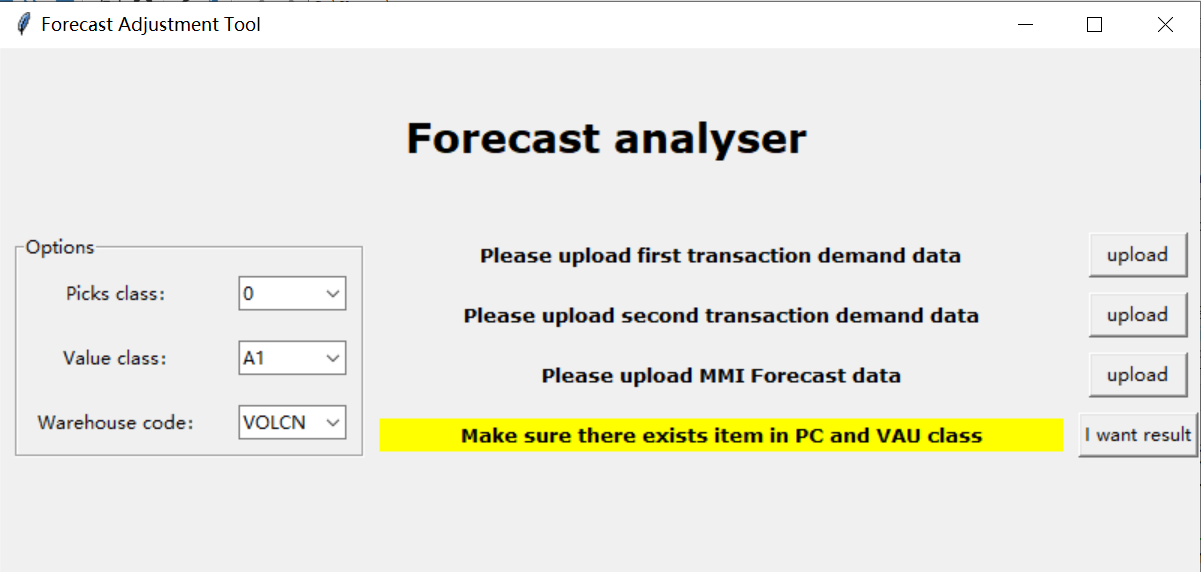
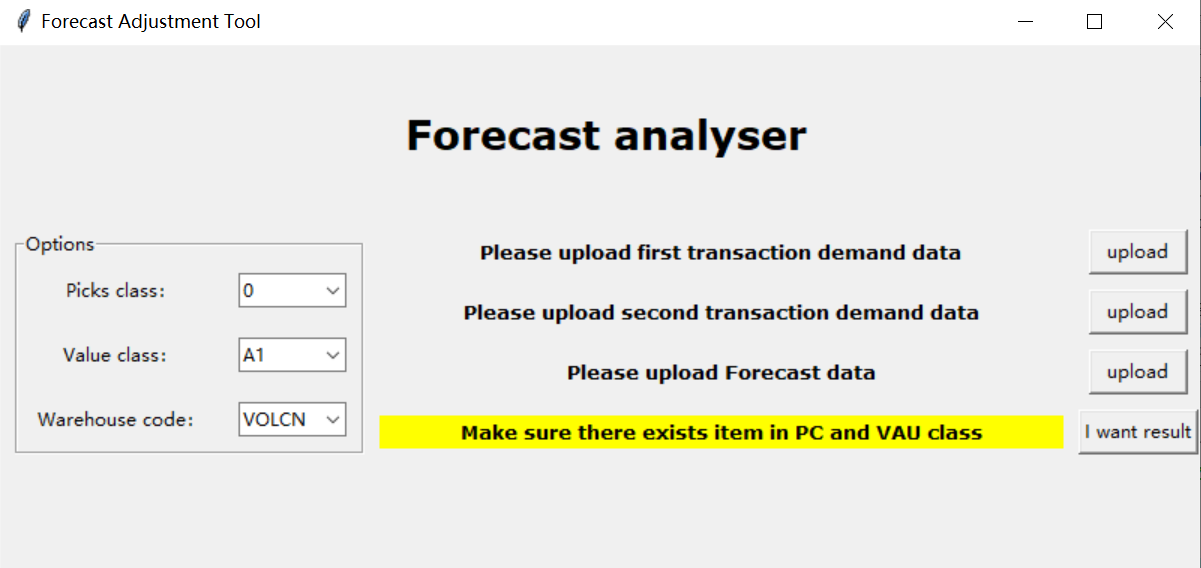
make adjustment

diff --git a/Forecast adjust.py b/Forecast adjust.py
@@ -47,7 +47,7 @@ label_query.grid(row = 0, column = 1,pady = 5)
 label_query2 = tk.Label(f2, text = 'Please upload second transaction demand data',font = ('Verdana 10 bold'), width = 50)
 label_query2.grid(row = 1, column = 1,pady = 5)
 
-label_query3 = tk.Label(f2, text = 'Please upload MMI Forecast data',font = ('Verdana 10 bold'), width = 50)
+label_query3 = tk.Label(f2, text = 'Please upload Forecast data',font = ('Verdana 10 bold'), width = 50)
 label_query3.grid(row = 2, column = 1,pady = 5)
 
 label_query4 = tk.Label(f2, text = 'Make sure there exists item in PC and VAU class',font = ('Verdana 10 bold'), bg=  'yellow', width = 50)
